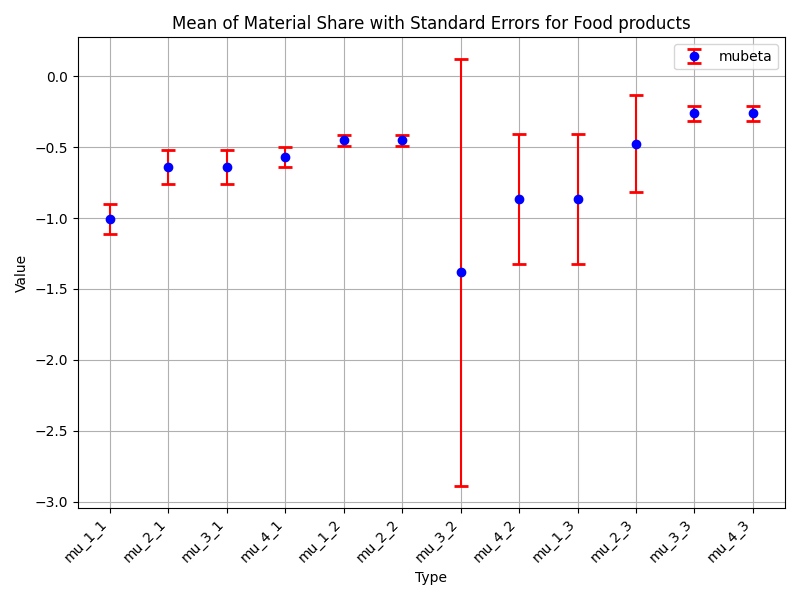
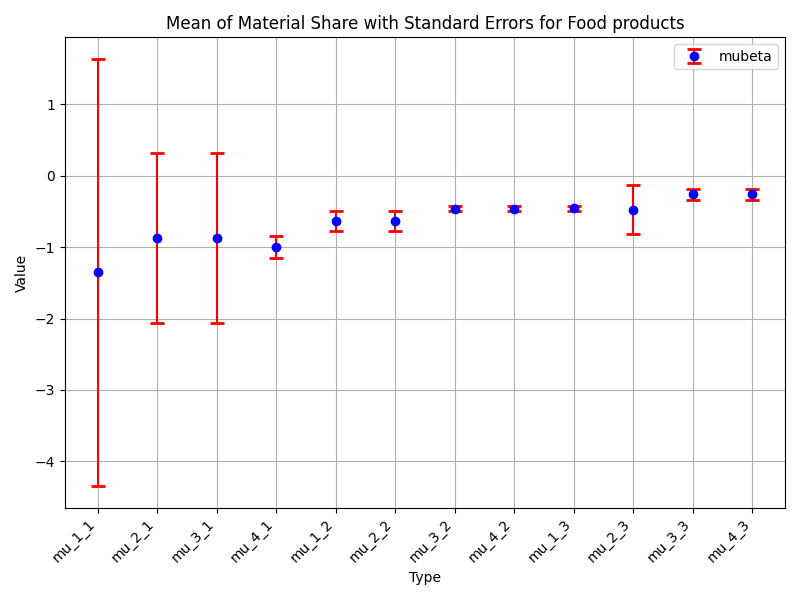
update
Update .gitignore

diff --git a/MixtureTest/script_plot_data.py b/MixtureTest/script_plot_data.py
@@ -29,7 +29,7 @@ for (each_code, m) in zip(ind_code, M_list):
     y = processed_data['y']
     x_0 = processed_data['x_0']
     x_kmshare = processed_data['x_kmshare']
-    z = np.zeros((x_0.shape[0], 0))
+    z = processed_data['z_ciiu']
     z = z.astype(np.float64)  # Convert z to float64
     z_0 = np.zeros((z.shape[0], 0))
     
@@ -43,6 +43,8 @@ for (each_code, m) in zip(ind_code, M_list):
     output_path = f"figure/empirical_distribution_{INDNAME}.png"
     plot_empirical_distribution(values, bin_edges, INDNAME, colors, output_path)
 
+    # Plot the error of 3-component plain mixture 
+    # ---------------------------------
     estimate_params = regpanelmixmixturePMLE(y, x_0, z_0, 0, 0, m, k)
     
     fig = plt.figure(figsize=(6, 4))  # Set figure size (optional)
@@ -58,13 +60,45 @@ for (each_code, m) in zip(ind_code, M_list):
     tau_hat = estimate_params['tau_hat'].reshape((m,k))
     mu_hat = estimate_params['mu_hat'].reshape((m,k))
     sigma_hat = estimate_params['sigma_hat']
-        
+    
     # Call the function
+    values_type = [values for mm in range(m)]
     output_path = f"figure/empirical_error_plain_{INDNAME}.png"
-    plot_mixture_distribution(estimate_params, T, values, bin_edges, tau_hat, mu_hat, sigma_hat, m, k, colors, INDNAME, plot_x_values, output_path)
+    plot_mixture_distribution(estimate_params, T, values_type, bin_edges, tau_hat, mu_hat, sigma_hat, m, k, colors, INDNAME, plot_x_values, output_path)
     # sample of returning the estimates and standard errors
 
-    # Plot the coefficients 
+    
+    # Plot the error of 3-component mixture kmshare ciiu 
+    # ---------------------------------
+    estimate_params = regpanelmixmixturePMLE(y, x_kmshare, z, z.shape[1], x_kmshare.shape[1], m, k)
+    
+    fig = plt.figure(figsize=(6, 4))  # Set figure size (optional)
+
+    num_bins = 50  # You can change this based on your data
+    
+    # values = np.exp(y.T.flatten())
+    values = y.T.flatten()
+    plot_x_values = np.linspace(min(values) - 1, max(values) + 1, 1000)
+
+    bin_edges = np.linspace(values.min(), values.max(), num_bins + 1)  # Define bin edges
+
+    values_type = [values for mm in range(m)]
+    for mm in range(m):
+        # mm = 0
+        values_type[mm] = values_type[mm] - x_kmshare @ estimate_params['beta_hat'][mm] - z @ estimate_params['gamma_hat'][0]
+    tau_hat = estimate_params['tau_hat'].reshape((m,k))
+    mu_hat = estimate_params['mu_hat'].reshape((m,k))
+    sigma_hat = estimate_params['sigma_hat']
+        
+    # Call the function
+    output_path = f"figure/empirical_error_kmshare_ciiu_{INDNAME}.png"
+    plot_mixture_distribution(estimate_params, T, values_type, bin_edges, tau_hat, mu_hat, sigma_hat, m, k, colors, INDNAME, plot_x_values, output_path)
+    # sample of returning the estimates and standard errors
+    
+    
+    # Plot the coefficients of normal plain
+    # ---------------------------------
+    
     model_output = regpanelmixPMLE(y, x_0, z_0, p=0, q=0, m=m)
     params_dict, params_array, standard_errors, standard_errors_dict, variable_names = compute_standard_errors(model_output, data=[y,x_0,z_0], model_type='stationary_normal')
     
@@ -77,7 +111,8 @@ for (each_code, m) in zip(ind_code, M_list):
     types=variable_names['mu']
     plot_mubeta_with_error_bars(params_dict['mu'], standard_errors_dict['mu'], variable_names['mu'], INDNAME, PNAME, output_path)
      
-    # Model with Mix
+    # Plot the coefficients of 3-component mixture plain
+    # ---------------------------------
     model_output = regpanelmixmixturePMLE(y, x_0, z_0, p=0, q=0, m=m, k=k)
     params_dict, params_array, standard_errors, standard_errors_dict, variable_names = compute_standard_errors(model_output, data=[y,x_0,z_0], model_type='stationary_mixture')
     

diff --git a/MixtureTest/MixtureTestFunctions.py b/MixtureTest/MixtureTestFunctions.py
@@ -5158,7 +5158,7 @@ def plot_empirical_distribution(values, bin_edges, INDNAME, colors, output_path)
     plt.close()
     
 # %%
-def plot_mixture_distribution(estimate_params, T, values, bin_edges, tau_hat, mu_hat, sigma_hat, m, k, colors, INDNAME, x, output_path):
+def plot_mixture_distribution(estimate_params, T, values_type, bin_edges, tau_hat, mu_hat, sigma_hat, m, k, colors, INDNAME, x, output_path):
     fig = plt.figure(figsize=(8, 6))  # Define the figure
 
     for mm in range(m):
@@ -5166,7 +5166,7 @@ def plot_mixture_distribution(estimate_params, T, values, bin_edges, tau_hat, mu
         P = np.repeat(estimate_params['post'][:, mm], T)
         P = P / np.sum(P)
 
-        plt.hist(values, bins=bin_edges, density=True, weights=P, alpha=0.5, label=f"Component {mm+1}", color=colors[mm], edgecolor="black")
+        plt.hist(values_type[mm], bins=bin_edges, density=True, weights=P, alpha=0.5, label=f"Component {mm+1}", color=colors[mm], edgecolor="black")
 
         weights = tau_hat[mm]
         means = mu_hat[mm]

diff --git a/MixtureTest/experiment_empirical_frequency_mixture_dgp_table3_2.py b/MixtureTest/experiment_empirical_frequency_mixture_dgp_table3_2.py
@@ -15,7 +15,7 @@ import os
 # Your code here
 # Set the number of threads you want Numba to use
 # set_num_threads(64)
-set_num_threads(15)
+# set_num_threads(15)
 
 # Verify the number of threads
 print(f"Numba is using {get_num_threads()} threads.")
